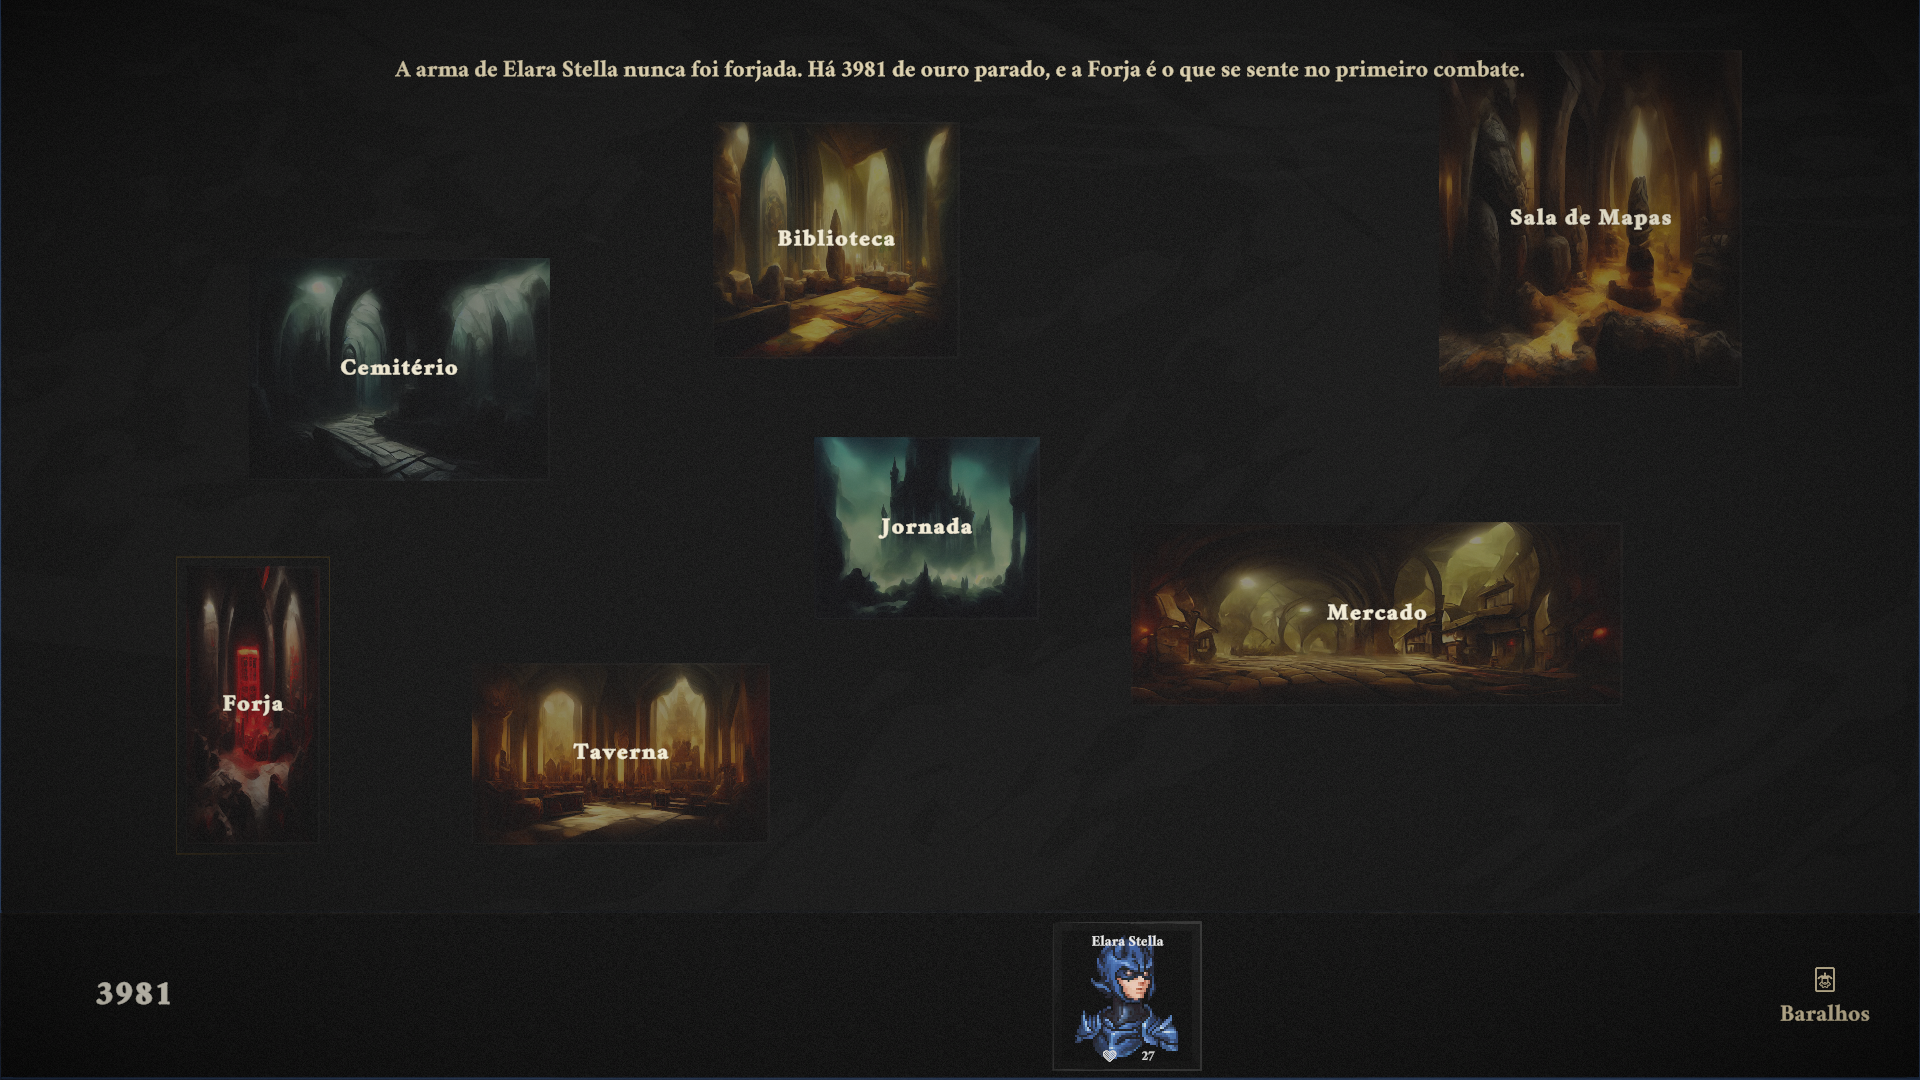
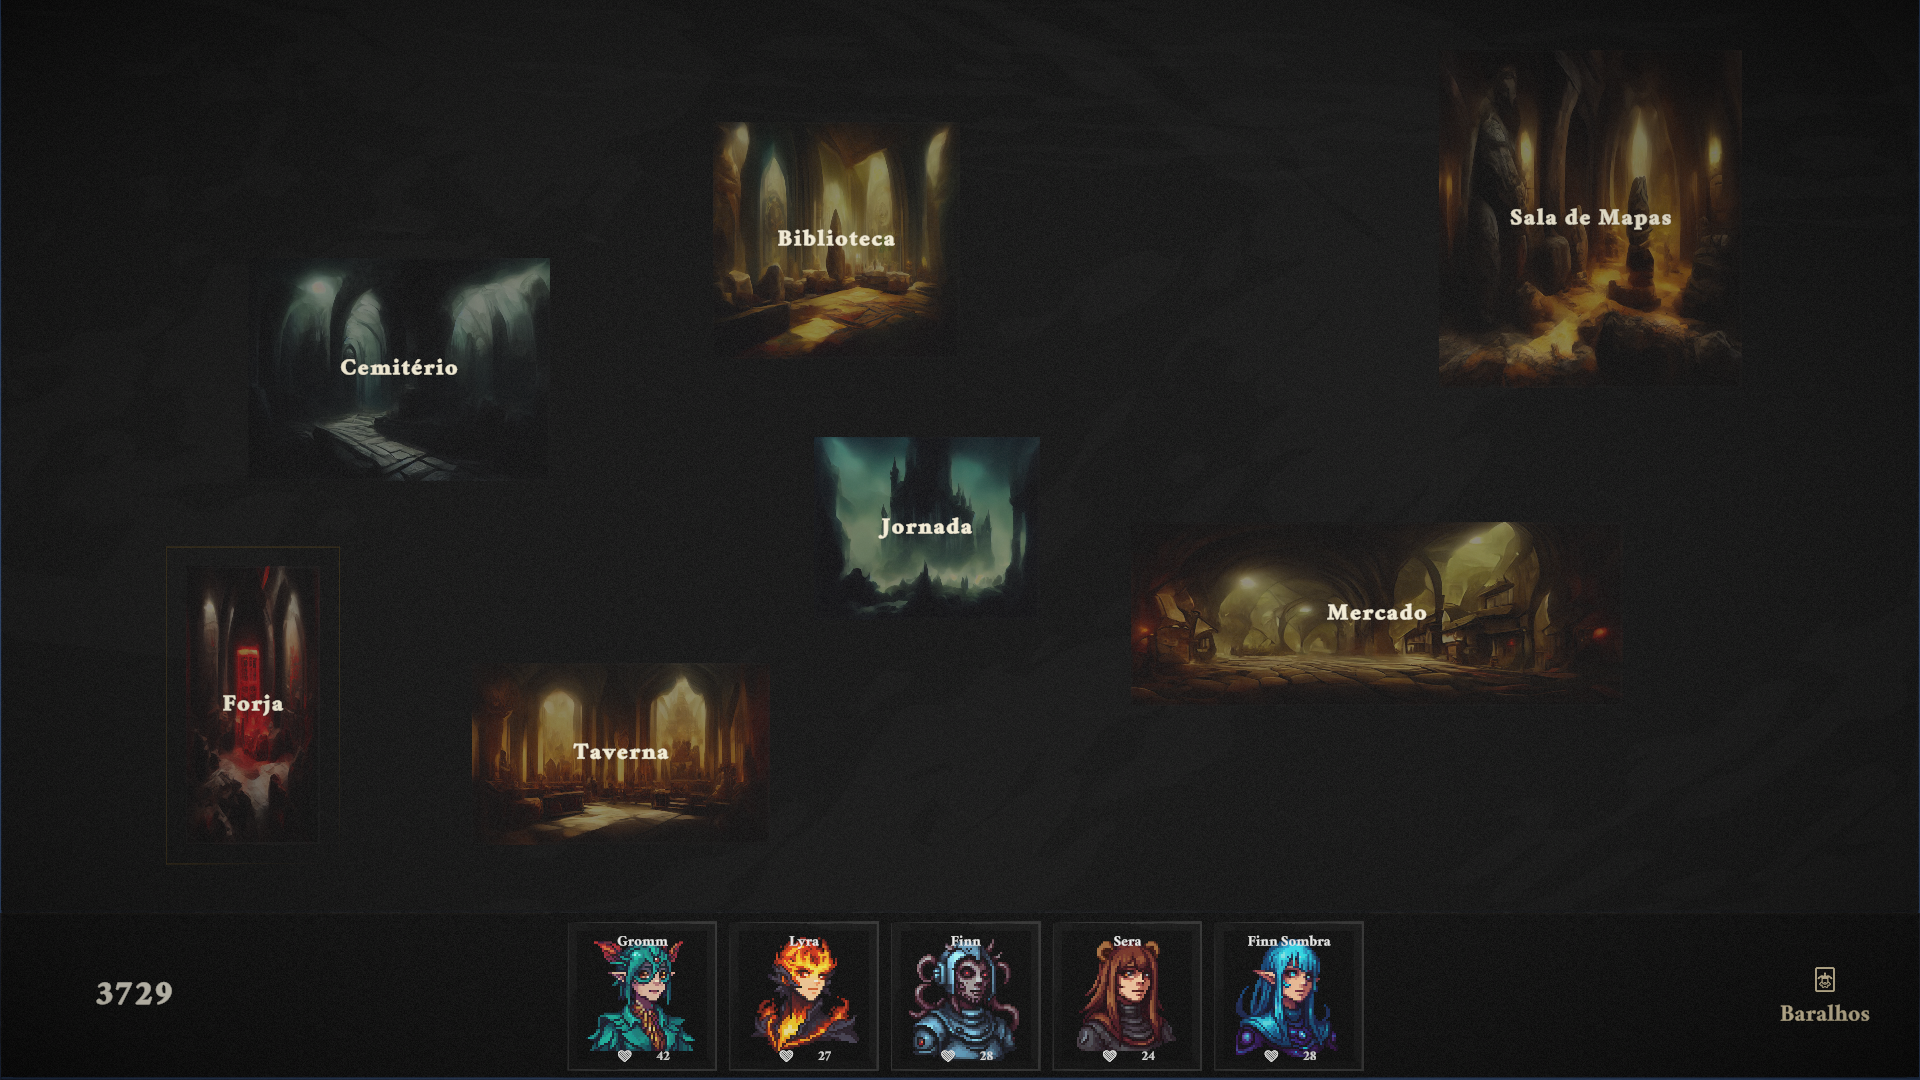
O guia cala, e a porta que importa acende sozinha
A guilda tinha uma frase no alto dizendo "A arma de Gromm nunca foi forjada. Há
3729 de ouro parado, e a Forja é o que se sente no primeiro combate." É uma
caixa de texto explicando o jogo — as duas coisas que o autor descartou como
forma de guiar. A frase sai; a decisão de qual sala importa agora continua, e é
ela que acende a moldura da porta.

A moldura sozinha não bastava. Sete portas do mesmo tamanho e do mesmo brilho, e
um contorno dourado de dez pixels no meio delas: na captura de 11/09 a Forja
estava acesa e era preciso saber onde procurar para achar. Agora ela transborda
vinte pixels, respira num ciclo de dois segundos, e as outras seis portas recuam
para 72% de brilho. O que o olho pega numa tela estática é o que se move e o que
contrasta — não o que está escrito.

Devagar de propósito: pisca-pisca vira urgência, e a porta acesa não é urgência,
é a sugestão do que fazer agora. Quem entra na sala encontra a explicação lá
dentro, porque toda sala já tem a sua linha de dica.

O Txt_Guia continua na cena, vazio e desligado — o GuildGuide guarda referência
a ele, e apagar objeto de cena por ferramenta é irreversível. O texto de cada
caso continua escrito no Decidir: é o que explica a regra para quem lê o código,
e o relatório de Play Mode passou a perguntá-lo direto ao guia, para auditar se
a sala apontada é a certa. A auditoria de telas também deixou de exigir linha de
dica na guilda: ela orienta pela porta acesa, e contá-la como tela sem
[…]

diff --git a/Assets/Scripts/UI/GuildGuide.cs b/Assets/Scripts/UI/GuildGuide.cs
@@ -5,7 +5,13 @@ using UnityEngine;
 using UnityEngine.UI;
 
 /// <summary>
-/// Diz ao jogador o que fazer agora, e acende a sala que resolve.
+/// Acende a sala que resolve o que o jogador tem pela frente.
+///
+/// <b>Desde 12/09 ele não escreve mais nada.</b> A frase no alto da guilda era
+/// uma caixa de texto explicando o jogo, e o autor descartou as duas coisas como
+/// forma de guiar. A decisão de <i>qual</i> sala importa agora continua igual —
+/// é ela que acende a moldura —, e quem explica o que fazer lá dentro é a
+/// própria sala, que já tem a sua linha de dica.
 ///
 /// A guilda é sete portas escuras lado a lado, todas com o mesmo peso visual:
 /// nada distingue a sala que faz o jogo andar da sala que o jogador só visita
@@ -17,9 +23,9 @@ using UnityEngine.UI;
 /// para a mais rotineira. Um guia que listasse tudo o que é possível fazer não
 /// seria guia nenhum — seria o mesmo menu de sete portas, agora por escrito.
 ///
-/// O texto descreve o estado real (nomes, números), nunca uma instrução genérica:
-/// "Gromm está esgotado" ensina a regra do estresse de passagem, "Visite o
-/// Mercado" não ensina nada.
+/// O texto de cada caso continua escrito no <see cref="Decidir"/>: ele é o que
+/// explica a regra de cada condição para quem lê o código, e é lido pelo
+/// relatório de Play Mode, que audita se o guia aponta para a sala certa.
 /// </summary>
 public class GuildGuide : MonoBehaviour
 {
@@ -115,11 +121,42 @@ public class GuildGuide : MonoBehaviour
         string sala, texto;
         Decidir(out sala, out texto);
 
-        if (linha != null) linha.text = texto;
+        // A frase não vai mais para a tela: o objeto fica na cena, vazio e
+        // desligado, porque é a referência que o guia guarda e apagar objeto de
+        // cena por ferramenta é irreversível. O texto continua servindo ao
+        // relatório de Play Mode, que confere se o guia aponta para a sala certa.
+        if (linha != null && linha.gameObject.activeSelf) linha.text = "";
 
         foreach (var s in salas)
-            if (s != null && s.realce != null)
-                s.realce.SetActive(s.nome == sala);
+        {
+            if (s == null || s.realce == null) continue;
+
+            bool eEsta = s.nome == sala;
+            s.realce.SetActive(eEsta);
+            Recuar(s.realce.transform.parent, eEsta);
+        }
+    }
+
+    /// <summary>
+    /// A porta sugerida fica em brilho cheio; as outras recuam.
+    ///
+    /// <b>A moldura acesa sozinha não bastava.</b> Sete portas do mesmo tamanho
+    /// e do mesmo brilho, e um contorno dourado de dez pixels no meio delas: na
+    /// captura de 12/09 a Forja estava acesa e era preciso saber onde procurar
+    /// para achar. Escurecer as outras é o que o olho lê de longe — e é sutil o
+    /// bastante (72%) para não parecer porta trancada, que seria mentira: todas
+    /// continuam clicáveis.
+    /// </summary>
+    static void Recuar(Transform sala, bool emDestaque)
+    {
+        if (sala == null) return;
+
+        var img = sala.GetComponent<Image>();
+        if (img == null) return;
+
+        float tom = emDestaque ? 1f : 0.72f;
+        Color c = img.color;
+        img.color = new Color(tom, tom, tom, c.a);
     }
 
     /// <summary>

diff --git a/Assets/Scripts/Core/GuildSceneSetup.cs b/Assets/Scripts/Core/GuildSceneSetup.cs
@@ -1546,13 +1546,21 @@ public static class GuildSceneSetup
             return;
         }
 
-        // O conselho vive no alto, onde a tela estava vazia, e ocupa a largura
-        // toda: as frases citam nome de herói e chegam a duas linhas.
+        // <b>A frase do guia sai de cena em 12/09.</b>
+        //
+        // Ela dizia "A arma de Elara Stella nunca foi forjada. Há 3981 de ouro
+        // parado…" no alto da guilda, e é exatamente o que o autor descartou como
+        // forma de guiar: <i>nem tutorial, nem caixa de texto</i>. O que fica é a
+        // porta acesa — e, ao entrar, a sala explica, porque toda sala já tem a
+        // sua linha de dica.
+        //
+        // O objeto continua existindo e só é esvaziado: o GuildGuide guarda uma
+        // referência a ele, e apagar objeto de cena por ferramenta é
+        // irreversível.
         TMP_Text linha = EnsureText(mapa, "Txt_Guia", "", 24,
             new Vector2(0, 1), new Vector2(1, 1), new Vector2(60, -108), new Vector2(-60, -34));
-        linha.alignment = TextAlignmentOptions.Center;
-        linha.color = ButtonLabelColor;
-        linha.enableWordWrapping = true;
+        linha.text = "";
+        linha.gameObject.SetActive(false);
 
         Sprite moldura = AssetDatabase.LoadAssetAtPath<Sprite>(OutlineSpritePath);
 
@@ -1608,10 +1616,19 @@ public static class GuildSceneSetup
         img.color = RealceTint;
         img.raycastTarget = false;
 
+        // A moldura respira. Parada, ela sumia entre sete portas do mesmo peso:
+        // na captura de 11/09 a Forja estava acesa e era preciso procurar para
+        // notar. Desde que a frase saiu, este brilho é a única orientação da
+        // guilda — e o que o olho pega numa tela estática é o que se move.
+        if (go.GetComponent<RealcePulsante>() == null)
+            Undo.AddComponent<RealcePulsante>(go);
+
         // Transborda a sala de propósito: uma moldura rente à borda se confunde
-        // com a moldura que o kit já pôs em toda caixa.
+        // com a moldura que o kit já pôs em toda caixa. Vinte pixels, e não dez:
+        // desde que a frase do guia saiu, esta moldura é a orientação da guilda
+        // inteira, e a dez ela passava por detalhe do cenário.
         ApplyRect(go.GetComponent<RectTransform>(), Vector2.zero, Vector2.one,
-                  new Vector2(-10, -10), new Vector2(10, 10));
+                  new Vector2(-20, -20), new Vector2(20, 20));
 
         go.SetActive(false);
         return go;

diff --git a/Assets/Scripts/Core/PlayModeProbe.cs b/Assets/Scripts/Core/PlayModeProbe.cs
@@ -2452,11 +2452,20 @@ public class PlayModeProbe : MonoBehaviour
                 Line($"  ATENÇÃO: só {aptos.Count} herói(s) em condição de partir — o grupo sai incompleto");
 
             // ── O que o guia manda fazer ──
+            // Desde 12/09 o guia não escreve na tela — ele acende a porta. O
+            // relatório pergunta a decisão direto a ele: é o que permite auditar
+            // se a sala apontada é a certa para o estado da guilda, que é a
+            // única coisa que o guia ainda faz.
             var guia = UnityEngine.Object.FindObjectOfType<GuildGuide>(true);
-            if (guia != null && guia.linha != null && !string.IsNullOrWhiteSpace(guia.linha.text))
-                Line($"  o guia da guilda diz: \"{StripTags(guia.linha.text)}\"");
+            if (guia != null)
+            {
+                guia.Decidir(out string salaAcesa, out string motivo);
+                Line($"  o guia acende: {salaAcesa}  ·  motivo: {StripTags(motivo)}");
+            }
             else
-                Line("  o guia da guilda não diz nada nesta volta");
+            {
+                Line("  não há guia da guilda na cena");
+            }
 
             // ── O que o quadro pede ──
             //
@@ -2630,6 +2639,17 @@ public class PlayModeProbe : MonoBehaviour
                 // que dá conselho de ser a única sem orientação. O relatório
                 // errou sobre o jogo, de novo; o defeito era do critério.
                 if (t.name.Contains("Hint") || t.name.Contains("Guia")) temDica = true;
+            }
+
+            // A guilda não tem linha de dica desde 12/09: ela orienta pela porta
+            // acesa. Contá-la como tela sem orientação seria o relatório errando
+            // sobre o jogo — pelo mesmo motivo que o Txt_Guia entrou no critério
+            // quando a frase existia.
+            if (tela.nome == "Guilda")
+            {
+                var g = UnityEngine.Object.FindObjectOfType<GuildGuide>(true);
+                if (g != null && g.salas.Exists(x => x != null && x.realce != null
+                                                  && x.realce.activeSelf)) temDica = true;
             }
 
             Line($"  {tela.nome,-24} {ativos,6}   {desligados,10}   {textos,6}   {(temDica ? "sim" : "NÃO"),12}");

diff --git a/Assets/Scripts/UI/RealcePulsante.cs b/Assets/Scripts/UI/RealcePulsante.cs
@@ -1,0 +1,59 @@
+using UnityEngine;
+using UnityEngine.UI;
+
+/// <summary>
+/// Faz a moldura da sala acesa respirar.
+///
+/// <b>Por que pulsar.</b> A guilda são sete portas do mesmo tamanho e do mesmo
+/// peso, e a moldura dourada parada some no meio delas — na captura de 11/09 a
+/// Forja estava acesa e era preciso procurar para notar. O que o olho pega numa
+/// tela estática é o que se move; um brilho que vai e volta chama sem escrever
+/// nada, que é a regra que o autor pôs: <i>nem tutorial, nem caixa de texto</i>.
+///
+/// Devagar de propósito — dois segundos por ciclo. Pisca-pisca vira urgência, e
+/// a porta acesa não é urgência: é a sugestão do que fazer agora.
+///
+/// Anda em <see cref="Time.unscaledDeltaTime"/> porque a guilda pode estar com o
+/// tempo parado (menu de pausa por cima), e uma moldura que congela no meio do
+/// fade parece defeito.
+/// </summary>
+[RequireComponent(typeof(Image))]
+public class RealcePulsante : MonoBehaviour
+{
+    /// <summary>Quanto o alfa cai no ponto mais baixo da respiração.</summary>
+    const float AlfaMinimo = 0.45f;
+
+    /// <summary>Segundos de um ciclo completo, ida e volta.</summary>
+    const float Periodo = 2f;
+
+    Image moldura;
+    float alfaCheio = 1f;
+
+    void Awake()
+    {
+        moldura = GetComponent<Image>();
+        if (moldura != null) alfaCheio = moldura.color.a;
+    }
+
+    void OnEnable()
+    {
+        // Começa cheio: a porta acende no instante em que a condição casa, e
+        // aparecer no ponto baixo do ciclo atrasaria a leitura.
+        if (moldura != null) Aplicar(alfaCheio);
+    }
+
+    void Update()
+    {
+        if (moldura == null) return;
+
+        // Seno de 0 a 1, e daí para a faixa de alfa.
+        float onda = (Mathf.Sin(Time.unscaledTime * Mathf.PI * 2f / Periodo) + 1f) * 0.5f;
+        Aplicar(Mathf.Lerp(AlfaMinimo * alfaCheio, alfaCheio, onda));
+    }
+
+    void Aplicar(float alfa)
+    {
+        Color c = moldura.color;
+        moldura.color = new Color(c.r, c.g, c.b, alfa);
+    }
+}
